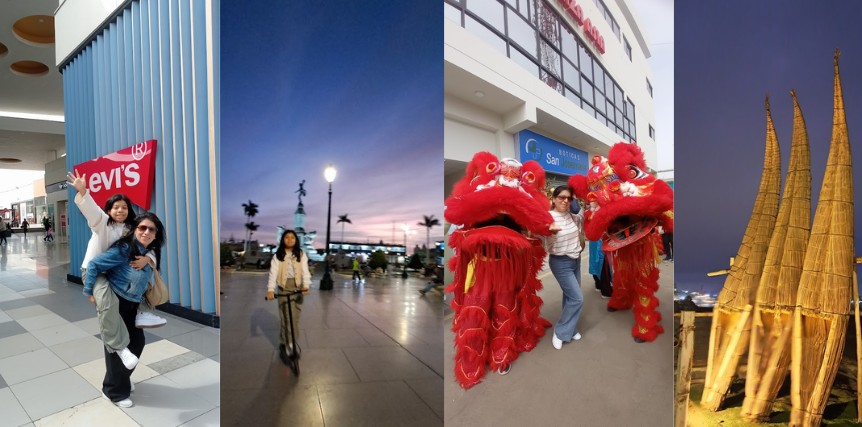
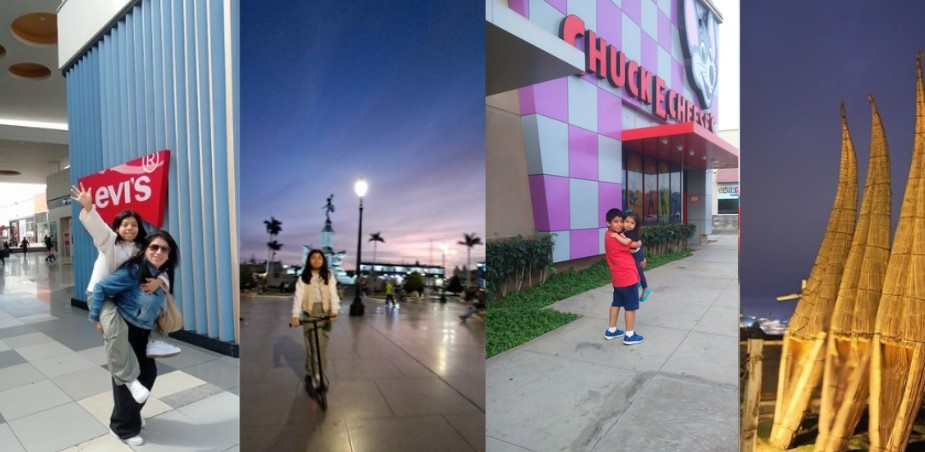
feat(viajes): actualizar imagen2 de Trujillo e integrar album completo de Lima

diff --git a/src/data/viajesData.js b/src/data/viajesData.js
@@ -26,6 +26,7 @@ const malabrigo = (fileName) => viajeAsset(`malabrigo/${fileName}`);
 const huaraz = (fileName) => viajeAsset(`huaraz/${fileName}`);
 const chiclayo = (fileName) => viajeAsset(`chiclayo/${fileName}`);
 const tembladera = (fileName) => viajeAsset(`tembladera/${fileName}`);
+const lima = (fileName) => viajeAsset(`lima/${fileName}`);
 
 export const destinosViajes = [
   {
@@ -104,7 +105,7 @@ export const destinosViajes = [
       {
         tipo: 'foto',
         titulo: 'Siempre volvemos',
-        url: trujillo('imagen2.jpg'),
+        url: trujillo('imagen2.jpg?v=2'),
         descripcion:
           'Hasta la fecha regresamos aquí por mis estudios, y agradezco mucho eso: no dejarme solo y siempre apoyarme. Exprimimos todo Trujillo juntos en miles de lugares.',
       },
@@ -394,6 +395,60 @@ export const destinosViajes = [
   {
     id: 'lima',
     titulo: 'Lima',
+    fecha: 'La capital que nunca duerme',
+    lugar: 'Lima Metropolitana',
+    portada: lima('portada.png'),
+    fotos: [
+      {
+        tipo: 'foto',
+        titulo: 'Exprimir la capital al máximo',
+        url: lima('imagen1.png'),
+        descripcion:
+          'Lima, la capital del país: siempre vamos a las mejores zonas a exprimirla al máximo. Hay miles de eventos y sigue siendo la ciudad favorita de tus hijos para gastar, gastar y gastar, jaja. ¡Es el lugar donde pasa de todo y hasta te cruzas con celebridades peruanas!',
+      },
+      {
+        tipo: 'foto',
+        titulo: 'Una ciudad gigante por descubrir',
+        url: lima('imagen2.jpg'),
+        descripcion:
+          'En Lima todavía nos quedan muchísimos rincones por conocer. Es una mezcla única donde conviven turistas de todo el mundo, conciertos gigantes, celebridades y hasta sus zonas movidas. Vamos desde que éramos muy niños y no deja de sorprendernos cómo sigue creciendo cada año.',
+      },
+      {
+        tipo: 'foto',
+        titulo: 'Hoteles pitucos y paisajes hermosos',
+        url: lima('imagen3.png'),
+        descripcion:
+          'Desde muy pequeños hasta la actualidad seguimos volviendo, pero cada vez más modernos: escogemos hoteles residenciales y bien pitucos, comemos rico, compramos y dormimos como si nos sobrara la plata, jaja. Todo vale la pena cuando ves esos paisajes frente al mar.',
+      },
+      {
+        tipo: 'foto',
+        titulo: 'Modernidad total (que no se note)',
+        url: lima('imagen4.jpeg'),
+        descripcion:
+          '¡Mira esta foto! Modernidad total y eso que ya tiene sus años; mucho más avanzada que las demás ciudades donde hemos estado. ¡Que no se note ni un poquito la centralización del país en la capital, jaja!',
+      },
+      {
+        tipo: 'foto',
+        titulo: 'La reina de las selfies',
+        url: lima('imagen5.png'),
+        descripcion:
+          'Mi madre hermosa brillando en todos los lugares. Aquí en Lima siempre salen sus mejores selfies, esas que al toque terminan de foto de perfil con toda la elegancia. ✨📸',
+      },
+      {
+        tipo: 'foto',
+        titulo: 'Gastronomía, conciertos y aventuras',
+        url: lima('imagen6.jpg'),
+        descripcion:
+          'Comida espectacular en cada esquina, paseos por los alrededores, conciertos inolvidables y personas de todo tipo. Cada escapada a Lima termina regalándonos experiencias únicas que no se repiten en ningún otro lugar.',
+      },
+      {
+        tipo: 'foto',
+        titulo: 'Gamarra, el Callao y lo que falta',
+        url: lima('imagen7.jpg'),
+        descripcion:
+          'El Parque de las Leyendas, centros comerciales gigantes, el Callao, Gamarra… ¡hay de todo! En serio nos falta muchísimo por recorrer y experimentar; yo todavía tengo pendiente conocer Gamarra como se debe. ¡Ya tocará volver con ganas!',
+      },
+    ],
   },
   {
     id: 'pacasmayo',
